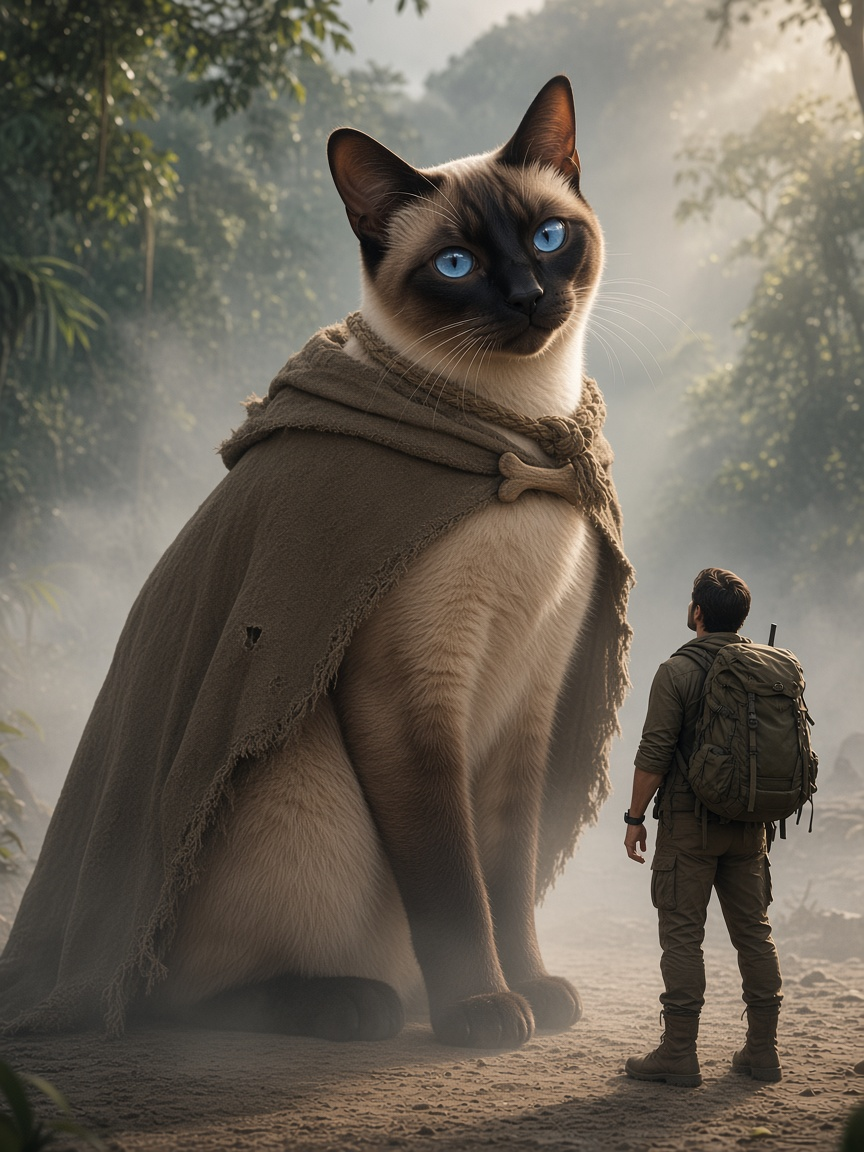
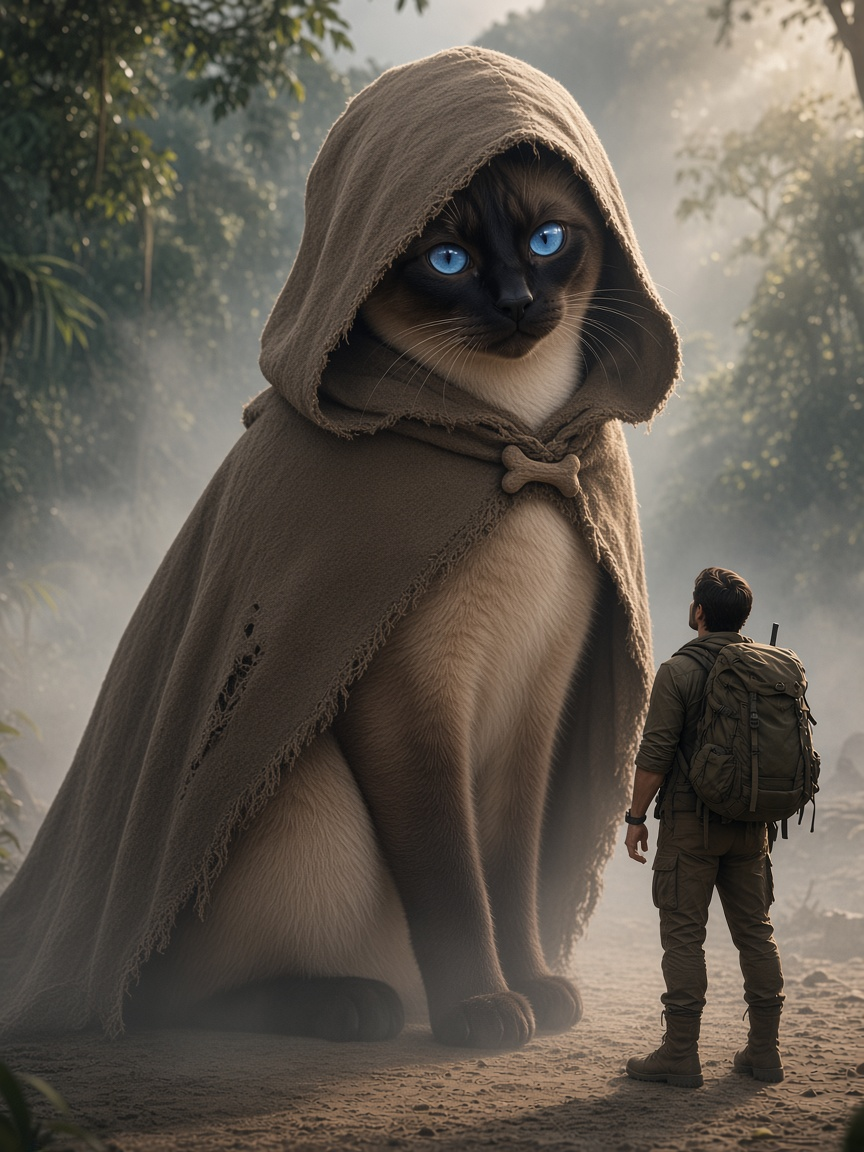
style: keep the guide hood up
The island plate now wears the travel cloak with the hood on, so only the blue eyes and dark mask show. The memory kitten stays uncloaked.

diff --git a/src/ui/companion/CatMark.tsx b/src/ui/companion/CatMark.tsx
@@ -57,7 +57,7 @@ export function CatMark({
             {figure === 'adult' ? (
               <>
                 <i className="cloak" data-cloak="worn" aria-hidden="true" />
-                <i className="cloak-hood" data-hood="down" aria-hidden="true" />
+                <i className="cloak-hood" data-hood="up" aria-hidden="true" />
               </>
             ) : null}
             <i className="collar-knot" data-knot={knot} aria-hidden="true" />

diff --git a/src/styles.css b/src/styles.css
@@ -317,15 +317,15 @@ h1 {
 }
 
 .cloak-hood {
-  left: 8%;
-  top: 22%;
-  width: 36%;
-  height: 12%;
+  left: 16%;
+  top: 2%;
+  width: 46%;
+  height: 30%;
 }
 
 .collar-knot {
   left: 58%;
-  top: 31%;
+  top: 28%;
   width: 12%;
   height: 6%;
   border-radius: 40%;

diff --git a/docs/characters/奈奈茶.md b/docs/characters/奈奈茶.md
@@ -22,13 +22,13 @@
 | 眼 | **亮天蓝** `#4B9FE0`，杏仁形；idle 半眯，看向目标时睁圆、单点电影高光 |
 | 鼻 | 成猫偏深褐 `#2C1C16`；回忆小猫可偏粉 `#E8A8A0` |
 | 颈饰 | **旧绳圈**一圈，磨损麻绳色 `#8B7355`；前方一枚**扁结** `#5C4634` 与岛上「背叛」证物绳结同形同编法 |
-| 披风 | **主线大猫常穿**：磨损茶褐 / 橄榄灰旅行披风（粗织帆布或油布感）`#6B5B4A`–`#8A7A66`，毛边破洞，骨/木制扣 + 麻绳系；罩肩背，帽兜可垂可不戴——让玩家一眼认出「这只向导」 |
+| 披风 | **主线大猫常穿**：磨损茶褐 / 橄榄灰旅行披风 `#6B5B4A`–`#8A7A66`，毛边破洞，骨/木扣 + 麻绳系；**默认戴帽兜**——耳完全收进兜内，兜口阴影里只看见**深邃亮蓝眼 + 深褐/黑面具脸**，一眼认出向导 |
 | 爪 / 尾 | 前掌可点触（拍提示）；尾长、深褐实色（非环纹豹尾），领路时尾尖可先指向目标 |
 | 体态语言 | 无嘴型对白；情绪全靠耳向、瞳孔、尾、肩峰起伏 |
 
 **禁止**：豹纹、蔷薇斑、耳后宽叶、雨林神兽/神话生物感、多邻国扁平可爱风。
 
-**跨岛同体原则**：五岛（东巴→甲骨→小篆→藏文→西夏）是**同一只奈奈茶**，不换物种。主线大猫**始终披风**（可脏可霜可沙，不换款式），本体比例 / 色点 / 绳结 / 披风剪影不变，保证玩家辨认。
+**跨岛同体原则**：五岛（东巴→甲骨→小篆→藏文→西夏）是**同一只奈奈茶**，不换物种。主线大猫**始终披风且默认戴兜**（可脏可霜可沙，不换款式），辨认靠：帽兜剪影 + 蓝眼黑脸；本体比例 / 色点 / 绳结不变。
 
 ### 2.1 回忆小猫形态
 

diff --git a/README.md b/README.md
@@ -35,7 +35,7 @@ npm run build
 
 ## 向导画面
 
-画面上不写向导的名字。立绘是披着旅行披风的暹罗色点家猫，组件在 [`src/ui/companion/CatMark.tsx`](src/ui/companion/CatMark.tsx)，图在 `src/assets/companion/nanaicha/`（`nanaicha-hero.png` 与 `nanaicha-silhouette.png` 是披风版主线，`kitten/` 是不披风的幼年回忆）。内部 id 是 `nanaicha`。披风钩子是 class `cloak` / `cloak-hood`（`data-cloak="worn"`，`data-hood="down"`）。颈上扁结是 class `collar-knot`；案卷持有绳结纹身时 `data-knot` 为 `glow`，否则 `rest`。造型说明在 [`docs/characters/奈奈茶.md`](docs/characters/奈奈茶.md)，氛围和姿势参考在 `docs/assets/nanaicha/`。
+画面上不写向导的名字。立绘是披着旅行披风的暹罗色点家猫，组件在 [`src/ui/companion/CatMark.tsx`](src/ui/companion/CatMark.tsx)，图在 `src/assets/companion/nanaicha/`（`nanaicha-hero.png` 与 `nanaicha-silhouette.png` 是披风版主线，`kitten/` 是不披风的幼年回忆）。内部 id 是 `nanaicha`。披风钩子是 class `cloak` / `cloak-hood`（`data-cloak="worn"`，`data-hood="up"`，主线默认戴兜）。颈上扁结是 class `collar-knot`；案卷持有绳结纹身时 `data-knot` 为 `glow`，否则 `rest`。造型说明在 [`docs/characters/奈奈茶.md`](docs/characters/奈奈茶.md)，氛围和姿势参考在 `docs/assets/nanaicha/`。
 
 手机壳只放了 `capacitor.config.ts`（`webDir` 为 `dist`）。还没有 iOS / Android 工程。
 
